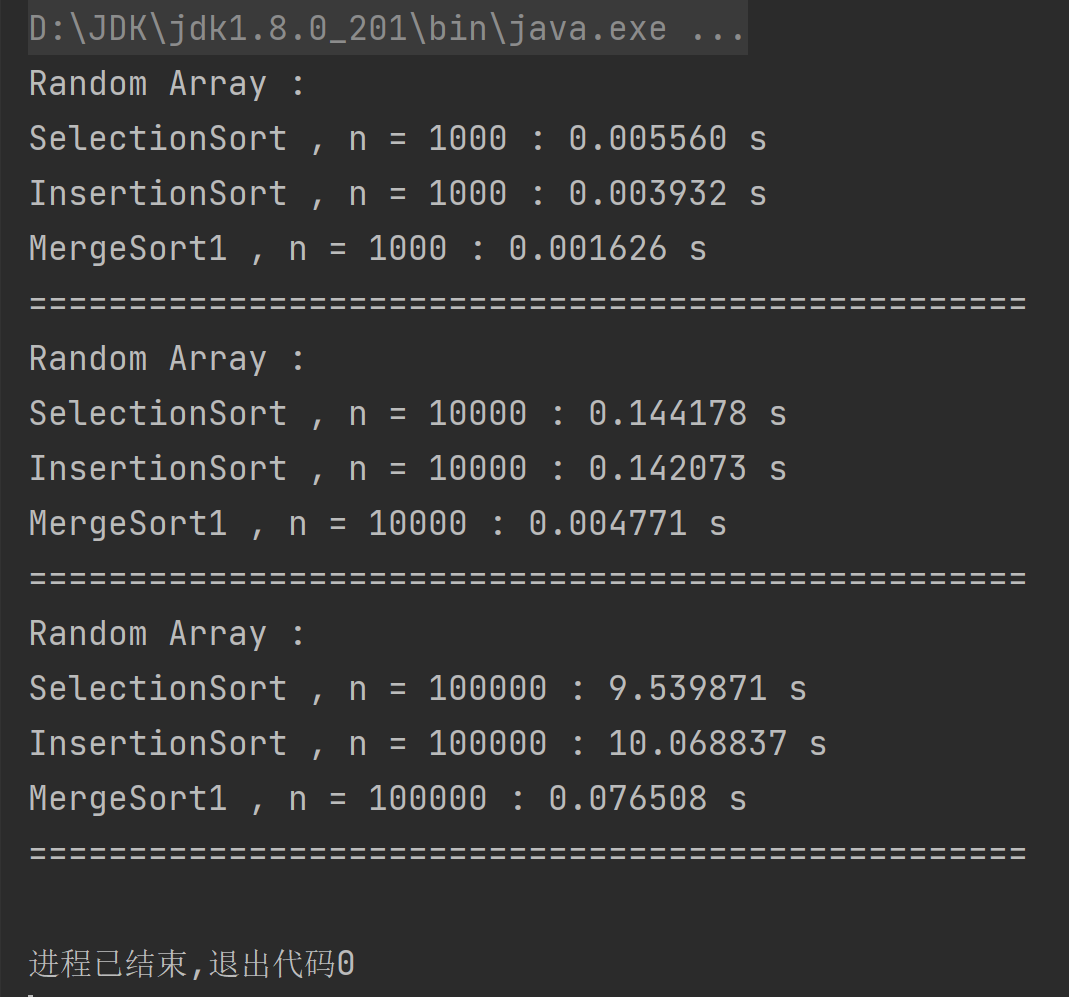
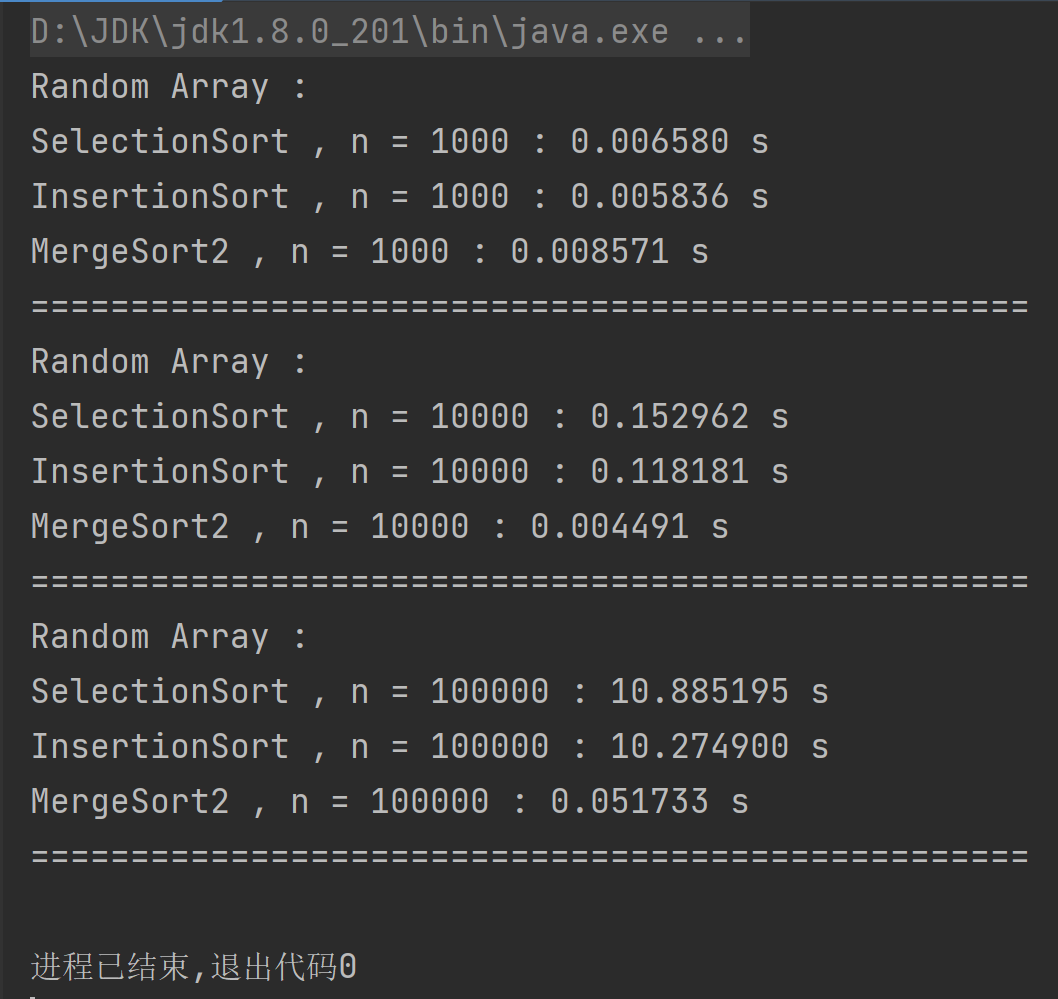
MergeSort-Memory-Optimization-And-Fix

diff --git a/08-MergeSort/08-6-MergeSort-Memory-Optimization/src/MergeSort.java b/08-MergeSort/08-6-MergeSort-Memory-Optimization/src/MergeSort.java
@@ -15,26 +15,27 @@ public class MergeSort {
         int mid = l + (r - l) / 2;
         sort1(arr, l, mid);
         sort1(arr, mid + 1, r);
-        merge(arr, l, mid, r);
+        merge1(arr, l, mid, r);
     }
 
     public static <E extends Comparable<E>> void sort2(E[] arr) {
-        sort2(arr, 0, arr.length - 1);
+        E[] temp = Arrays.copyOf(arr, arr.length);
+        sort2(arr, 0, arr.length - 1, temp);
     }
 
-    private static <E extends Comparable<E>> void sort2(E[] arr, int l, int r) {
+    private static <E extends Comparable<E>> void sort2(E[] arr, int l, int r, E[] temp) {
         if (r - l <= K) {
             InsertionSort.sort(arr, l, r);
             return;
         }
         int mid = l + (r - l) / 2;
-        sort2(arr, l, mid);
-        sort2(arr, mid + 1, r);
+        sort2(arr, l, mid, temp);
+        sort2(arr, mid + 1, r, temp);
         if (arr[mid].compareTo(arr[mid + 1]) > 0)// arr[mid] < arr[mid + 1]
-            merge(arr, l, mid, r);
+            merge2(arr, l, mid, r, temp);
     }
 
-    private static <E extends Comparable<E>> void merge(E[] arr, int l, int mid, int r) {
+    private static <E extends Comparable<E>> void merge1(E[] arr, int l, int mid, int r) {
         E[] temp = Arrays.copyOfRange(arr, l, r + 1);
         int i = l, j = mid + 1;
         for (int k = l; k <= r; k++) {
@@ -51,6 +52,21 @@ public class MergeSort {
                 arr[k] = temp[j - l];
                 j++;
             }
+        }
+    }
+
+    private static <E extends Comparable<E>> void merge2(E[] arr, int l, int mid, int r, E[] temp) {
+        System.arraycopy(arr, l, temp, l, r - l + 1);
+        int i = l, j = mid + 1;
+        for (int k = l; k <= r; k++) {
+            if (i > mid)
+                arr[k] = temp[j++];
+            else if (j > r)
+                arr[k] = temp[i++];
+            else if (temp[i].compareTo(temp[j]) <= 0)
+                arr[k] = temp[i++];
+            else
+                arr[k] = temp[j++];
         }
     }
 }

diff --git a/08-MergeSort/08-6-MergeSort-Memory-Optimization/src/SortingHelper.java b/08-MergeSort/08-6-MergeSort-Memory-Optimization/src/SortingHelper.java
@@ -1,0 +1,30 @@
+public class SortingHelper {
+    private SortingHelper() {
+    }
+
+    public static <E extends Comparable<E>> boolean isSorted(E[] arr) {
+
+        for (int i = 1; i < arr.length; i++)
+            if (arr[i - 1].compareTo(arr[i]) > 0)
+                return false;
+        return true;
+    }
+
+    public static <E extends Comparable<E>> void sortTest(String sortName, E[] arr) {
+
+        long startTime = System.nanoTime();
+        if (sortName.equals("SelectionSort"))
+            SelectionSort.sort(arr);
+        else if (sortName.equals("InsertionSort"))
+            InsertionSort.sort(arr);
+        else if (sortName.equals("MergeSort1"))
+            MergeSort.sort1(arr);
+        else if (sortName.equals("MergeSort2"))
+            MergeSort.sort2(arr);
+        long endTime = System.nanoTime();
+        double time = (endTime - startTime) / 1000000000.0;
+        if (!SortingHelper.isSorted(arr))
+            throw new RuntimeException(sortName + " failed");
+        System.out.println(String.format("%s , n = %d : %f s", sortName, arr.length, time));
+    }
+}

diff --git a/08-MergeSort/08-5-MergeSort-Advanced-Optimization/src/Main.java b/08-MergeSort/08-5-MergeSort-Advanced-Optimization/src/Main.java
@@ -11,7 +11,7 @@ public class Main {
 //            Integer[] data3 = Arrays.copyOf(data1, data1.length);
 //            SortingHelper.sortTest("SelectionSort", data1);
 //            SortingHelper.sortTest("InsertionSort", data2);
-//            SortingHelper.sortTest("MergeSort1", data3);
+//            SortingHelper.sortTest("MergeSort2", data3);
 
 //            System.out.println("Ordered Array : ");
 //            Integer[] data1 = ArrayGenerator.generateOrderedArray(n);
@@ -19,7 +19,7 @@ public class Main {
 //            Integer[] data3 = Arrays.copyOf(data1, data1.length);
 //            SortingHelper.sortTest("SelectionSort", data1);
 //            SortingHelper.sortTest("InsertionSort", data2);
-//            SortingHelper.sortTest("MergeSort", data3);
+//            SortingHelper.sortTest("MergeSort2", data3);
 
 //            System.out.println("Random Array : ");
 //            Integer[] arr1 = ArrayGenerator.generateRandomArray(n, n);

diff --git a/08-MergeSort/08-6-MergeSort-Memory-Optimization/src/ArrayGenerator.java b/08-MergeSort/08-6-MergeSort-Memory-Optimization/src/ArrayGenerator.java
@@ -1,0 +1,34 @@
+import java.util.Random;
+
+public class ArrayGenerator {
+    private ArrayGenerator() {
+    }
+
+    /**
+     * Sorted Array
+     * @param n
+     * @return
+     */
+    public static Integer[] generateOrderedArray(int n) {
+
+        Integer[] arr = new Integer[n];
+        for (int i = 0; i < n; i++)
+            arr[i] = i;
+        return arr;
+    }
+
+    /**
+     * Random Array
+     * @param n
+     * @param bound
+     * @return
+     */
+    public static Integer[] generateRandomArray(int n, int bound){
+
+        Integer[] arr = new Integer[n];
+        Random rnd = new Random();
+        for(int i = 0; i < n; i ++)
+            arr[i] = rnd.nextInt(bound);
+        return arr;
+    }
+}

diff --git a/08-MergeSort/08-6-MergeSort-Memory-Optimization/src/SelectionSort.java b/08-MergeSort/08-6-MergeSort-Memory-Optimization/src/SelectionSort.java
@@ -1,0 +1,25 @@
+public class SelectionSort {
+    private SelectionSort() {
+    }
+
+    public static <E extends Comparable<E>> void sort(E[] arr) {
+        sort(arr, 0, arr.length - 1);
+    }
+
+    public static <E extends Comparable<E>> void sort(E[] arr, int l, int r) {
+        for (int i = l; i <= r - 1; i++) {// i < arr.length
+            int minIndex = i;
+            for (int j = i; j <= r; j++) {
+                if (arr[j].compareTo(arr[minIndex]) < 0)
+                    minIndex = j;
+            }
+            swap(arr, i, minIndex);
+        }
+    }
+
+    private static <E> void swap(E[] arr, int i, int j) {
+        E t = arr[i];
+        arr[i] = arr[j];
+        arr[j] = t;
+    }
+}

diff --git a/08-MergeSort/08-6-MergeSort-Memory-Optimization/src/InsertionSort.java b/08-MergeSort/08-6-MergeSort-Memory-Optimization/src/InsertionSort.java
@@ -1,0 +1,22 @@
+public class InsertionSort {
+    private InsertionSort() {
+    }
+
+    public static <E extends Comparable<E>> void sort(E[] arr) {
+        sort(arr, 0, arr.length - 1);
+    }
+
+    public static <E extends Comparable<E>> void sort(E[] arr, int l, int r) {
+        for (int i = l; i <= r; i++) {
+            E t = arr[i];
+            int j;
+            for (j = i; j - 1 >= l; j--) {
+                if (t.compareTo(arr[j - 1]) < 0)
+                    arr[j] = arr[j - 1];
+                else
+                    break;
+            }
+            arr[j] = t;
+        }
+    }
+}

diff --git a/README.md b/README.md
@@ -207,7 +207,7 @@ for (int i = 0; i < arr.length - 1; i++) {//i < arr.length
 
 下一步可以省略：
 
-（i = 5$，$j = 5）：遍历（minIndex = 5）
+（i = 5，j = 5）：遍历（minIndex = 5）
 
 1 2 3 4 5 6
 
@@ -986,6 +986,8 @@ public ListNode reverseList(ListNode head) {
   - `08-2-MergeSort-Track`
   - `08-3-MergeSort-Complexity`
   - `08-4-MergeSort-Basic-Optimization`
+  - `08-5-MergeSort-Advanced-Optimization`
+  - `08-6-MergeSort-Memory-Optimization`
 
 **算法模板**：
 
@@ -1056,6 +1058,39 @@ if (arr[mid].compareTo(arr[mid + 1]) > 0)// arr[mid] < arr[mid + 1],
 | 随机数组                                                     | 有序数组                                                     |
 | ------------------------------------------------------------ | ------------------------------------------------------------ |
 | ![MergeSort1](https://github.com/JiajiaLiang2001/Algorithm/blob/master/images/08_5_3.png) | ![MergeSort2](https://github.com/JiajiaLiang2001/Algorithm/blob/master/images/08_5_4.png) |
+
+#### 优化三（临时空间）
+
+在优化一、二的基础上测试
+
+```java
+E[] temp = Arrays.copyOf(arr, arr.length);
+...
+System.arraycopy(arr, l, temp, l, r - l + 1);
+int i = l, j = mid + 1;
+for (int k = l; k <= r; k++) {
+    if (i > mid)
+        arr[k] = temp[j++];
+    else if (j > r)
+        arr[k] = temp[i++];
+    else if (temp[i].compareTo(temp[j]) <= 0)
+        arr[k] = temp[i++];
+    else
+        arr[k] = temp[j++];
+}
+```
+
+同其他排序（选择排序、插入排序）比较
+
+| 随机数组                                                     | 有序数组                                                     |
+| ------------------------------------------------------------ | ------------------------------------------------------------ |
+| ![MergeSort1](https://github.com/JiajiaLiang2001/Algorithm/blob/master/images/08_6_1.png) | ![MergeSort2](https://github.com/JiajiaLiang2001/Algorithm/blob/master/images/08_6_2.png) |
+
+优化前后自身比较
+
+| 随机数组                                                     | 有序数组                                                     |
+| ------------------------------------------------------------ | ------------------------------------------------------------ |
+| ![MergeSort1](https://github.com/JiajiaLiang2001/Algorithm/blob/master/images/08_6_3.png) | ![MergeSort2](https://github.com/JiajiaLiang2001/Algorithm/blob/master/images/08_6_4.png) |
 
 ## 快速排序
 
